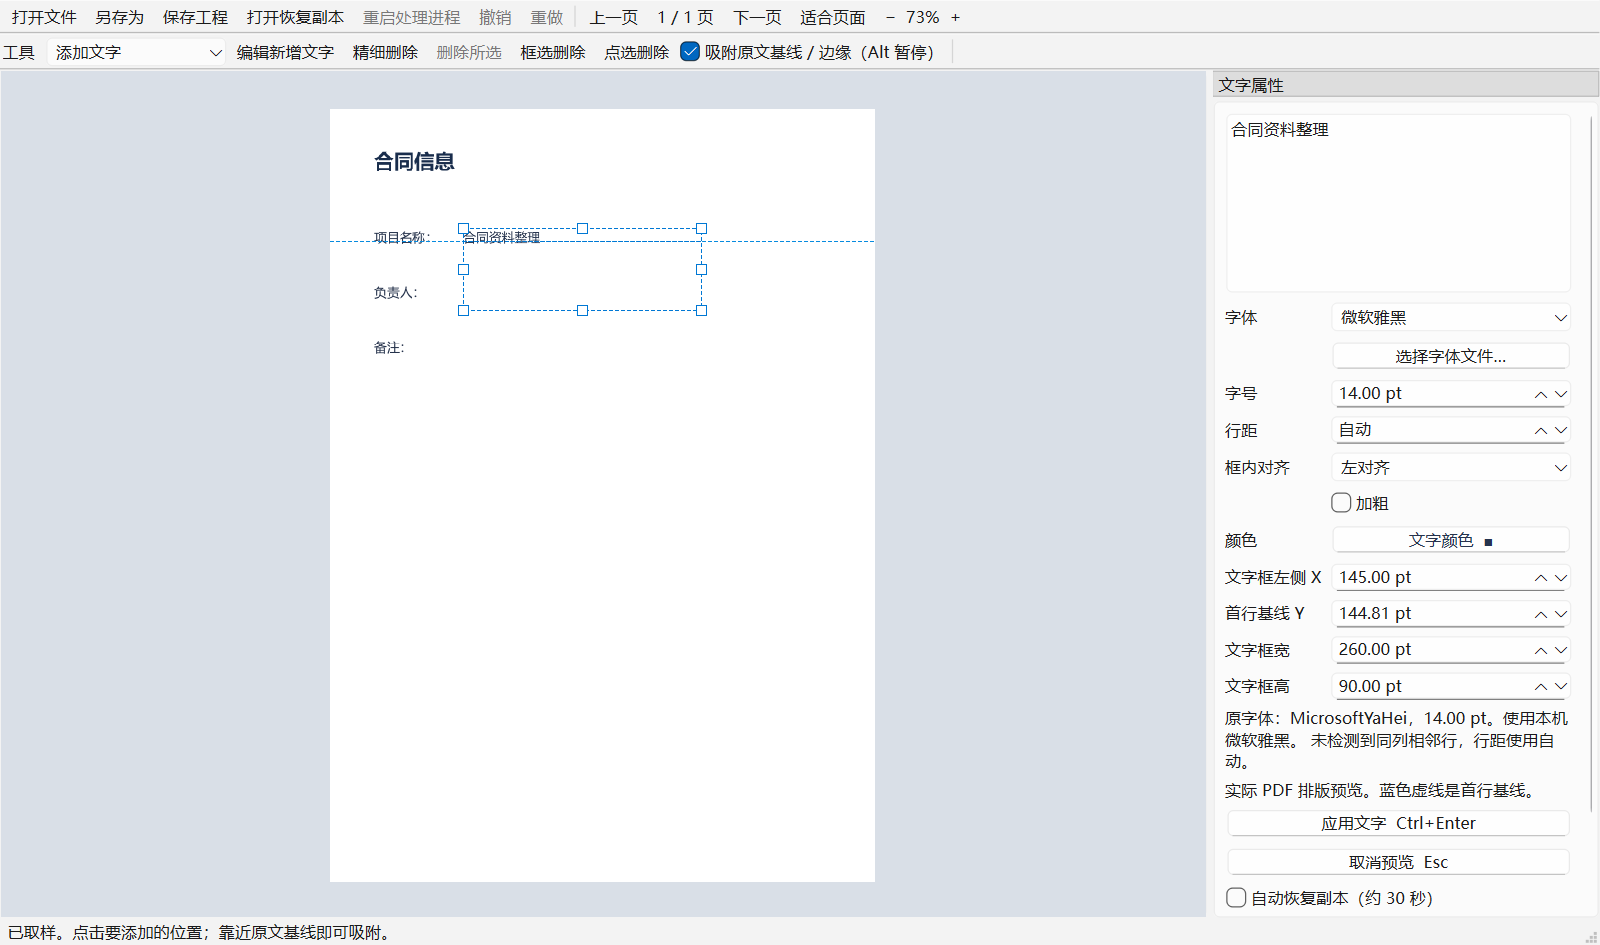
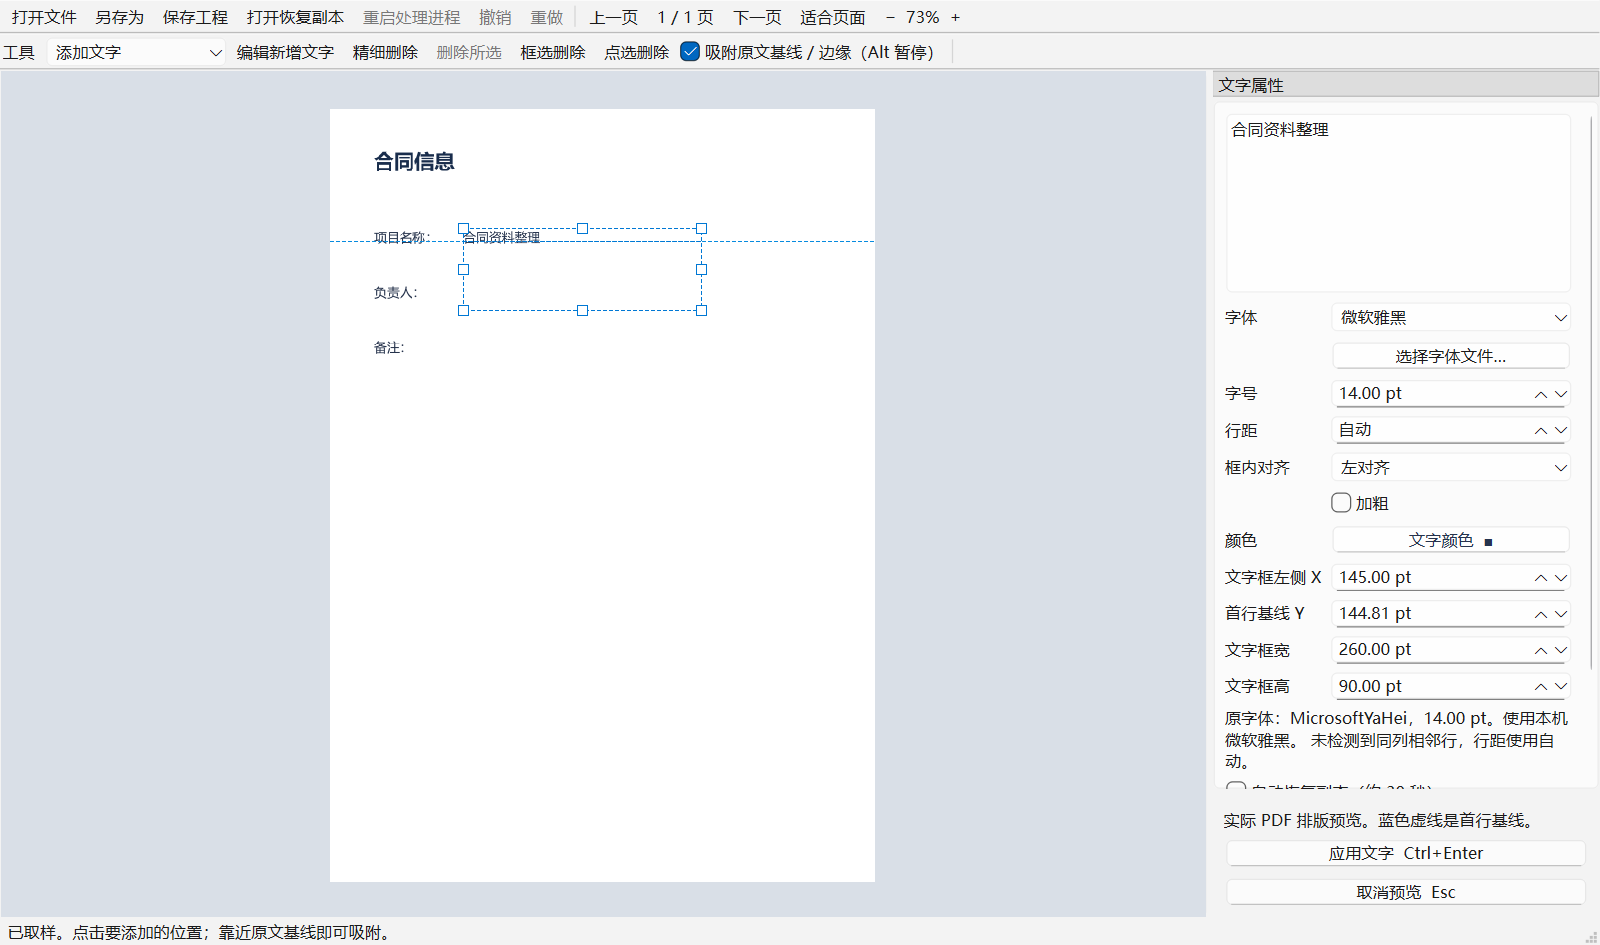
Release v0.5.0-rc.4 with fixed controls and Chinese font fallback

Changed region(s): [[0.75, 0.8286, 0.9688, 0.982]]

diff --git a/pdf_editor.py b/pdf_editor.py
@@ -18,6 +18,27 @@ from alignment import snap_box, nearest_span, match_font, word_at, sample_line_s
 from version import __version__
 
 
+class FocusWheelMixin:
+    """Scrolling past a property must not silently change the document style."""
+    def __init__(self, *args, **kwargs):
+        super().__init__(*args, **kwargs)
+        self.setFocusPolicy(Qt.FocusPolicy.StrongFocus)
+
+    def wheelEvent(self, event):
+        if self.hasFocus():
+            super().wheelEvent(event)
+        else:
+            event.ignore()
+
+
+class PropertyComboBox(FocusWheelMixin, QComboBox):
+    pass
+
+
+class PropertySpinBox(FocusWheelMixin, QDoubleSpinBox):
+    pass
+
+
 class PdfClient(QObject):
     result = Signal(dict)
     failed = Signal(str)
@@ -514,6 +535,10 @@ class Editor(QMainWindow):
         self.guides = []
         self.color = (0.0, 0.0, 0.0)
         self.fonts = windows_fonts()
+        if not any(name in self.fonts for name in ('微软雅黑', '宋体', '黑体', '楷体', '仿宋')):
+            self.fonts = {'内置中文字体': None, **self.fonts}
+        else:
+            self.fonts['内置中文字体'] = None
         self.preview_version = 0
         self.tile_cache = OrderedDict()
         self.cache_bytes = 0
@@ -586,7 +611,7 @@ class Editor(QMainWindow):
         editing.setMovable(False)
         self.addToolBar(editing)
         editing.addWidget(QLabel('工具  '))
-        self.mode = QComboBox()
+        self.mode = PropertyComboBox()
         for label, value in [('添加文字', 'add'), ('表格单元格填字', 'cell'), ('编辑新增文字', 'edit'), ('精细删除（按字符）', 'precise'), ('框选删除', 'delete'), ('点选删除文字', 'erase'), ('取样原文样式', 'sample'), ('平移页面', 'pan')]:
             self.mode.addItem(label, value)
         self.mode.currentIndexChanged.connect(self.mode_changed)
@@ -616,20 +641,20 @@ class Editor(QMainWindow):
         self.text_input.textChanged.connect(self.content_changed)
         layout.addWidget(self.text_input)
         form = QFormLayout()
-        self.font_combo = QComboBox()
-        self.font_combo.addItems(list(self.fonts) or ['内置宋体'])
+        self.font_combo = PropertyComboBox()
+        self.font_combo.addItems(list(self.fonts))
         self.font_combo.currentTextChanged.connect(self.content_changed)
         form.addRow('字体', self.font_combo)
         import_button = QPushButton('选择字体文件…')
         import_button.clicked.connect(self.import_font)
         form.addRow('', import_button)
-        self.size = QDoubleSpinBox()
+        self.size = PropertySpinBox()
         self.size.setRange(6, 96)
         self.size.setValue(14)
         self.size.setSuffix(' pt')
         self.size.valueChanged.connect(self.content_changed)
         form.addRow('字号', self.size)
-        self.line_spacing = QDoubleSpinBox()
+        self.line_spacing = PropertySpinBox()
         self.line_spacing.setRange(0, 1000)
         self.line_spacing.setDecimals(2)
         self.line_spacing.setSuffix(' pt')
@@ -637,7 +662,7 @@ class Editor(QMainWindow):
         self.line_spacing.setToolTip('相邻行基线之间的距离；0 为字体默认行距。取样时尝试读取同列相邻行。')
         self.line_spacing.valueChanged.connect(self.content_changed)
         form.addRow('行距', self.line_spacing)
-        self.text_align = QComboBox()
+        self.text_align = PropertyComboBox()
         for label, value in [('左对齐', 0), ('居中', 1), ('右对齐', 2)]:
             self.text_align.addItem(label, value)
         self.text_align.currentIndexChanged.connect(self.content_changed)
@@ -651,7 +676,7 @@ class Editor(QMainWindow):
         form.addRow('颜色', self.color_button)
         self.coords = {}
         for key, label, value in [('x', '文字框左侧 X', 40), ('baseline', '首行基线 Y', 60), ('width', '文字框宽', 260), ('height', '文字框高', 90)]:
-            field = QDoubleSpinBox()
+            field = PropertySpinBox()
             field.setRange(0 if key in ('x', 'baseline') else 12, 20000)
             field.setDecimals(2)
             field.setValue(value)
@@ -664,16 +689,6 @@ class Editor(QMainWindow):
         self.sample_label.setWordWrap(True)
         layout.addWidget(self.sample_label)
         layout.addStretch()
-        self.preview_label = QLabel('点击页面放置文字；对齐时出现蓝色参考线。')
-        self.preview_label.setWordWrap(True)
-        layout.addWidget(self.preview_label)
-        self.apply_button = QPushButton('应用文字  Ctrl+Enter')
-        self.apply_button.setEnabled(False)
-        self.apply_button.clicked.connect(self.apply)
-        layout.addWidget(self.apply_button)
-        cancel = QPushButton('取消预览  Esc')
-        cancel.clicked.connect(self.cancel)
-        layout.addWidget(cancel)
         self.recovery_toggle = QCheckBox('自动恢复副本（约 30 秒）')
         self.recovery_toggle.setToolTip('选择本地目录，保存当前文档和已放置的草稿；保留原有 PDF 加密。每次打开文件后需重新启用。')
         self.recovery_toggle.toggled.connect(self.toggle_recovery)
@@ -687,7 +702,26 @@ class Editor(QMainWindow):
         scroll = QScrollArea()
         scroll.setWidgetResizable(True)
         scroll.setWidget(body)
-        dock.setWidget(scroll)
+        self.properties_scroll = scroll
+        panel = QWidget()
+        panel_layout = QVBoxLayout(panel)
+        panel_layout.setContentsMargins(0, 0, 0, 0)
+        panel_layout.addWidget(scroll, 1)
+        footer_widget = QWidget()
+        footer_layout = QVBoxLayout(footer_widget)
+        self.preview_label = QLabel('点击页面放置文字；对齐时出现蓝色参考线。')
+        self.preview_label.setWordWrap(True)
+        self.preview_label.setMaximumHeight(64)
+        footer_layout.addWidget(self.preview_label)
+        self.apply_button = QPushButton('应用文字  Ctrl+Enter')
+        self.apply_button.setEnabled(False)
+        self.apply_button.clicked.connect(self.apply)
+        footer_layout.addWidget(self.apply_button)
+        self.cancel_button = QPushButton('取消预览  Esc')
+        self.cancel_button.clicked.connect(self.cancel)
+        footer_layout.addWidget(self.cancel_button)
+        panel_layout.addWidget(footer_widget)
+        dock.setWidget(panel)
         self.addDockWidget(Qt.DockWidgetArea.RightDockWidgetArea, dock)
         apply_action = QAction(self)
         apply_action.setShortcut('Ctrl+Return')
@@ -824,6 +858,7 @@ class Editor(QMainWindow):
                     self.draft.update()
                     self.apply_button.setEnabled(False)
                     self.preview_label.setText(response['error'])
+                    self.preview_label.setToolTip(response['error'])
             elif kind == 'tile':
                 self.statusBar().showMessage('该区域渲染失败：' + response['error'], 6000)
             else:
@@ -865,6 +900,7 @@ class Editor(QMainWindow):
                 self.sync_geometry()
                 self.apply_button.setEnabled(not self.busy)
                 self.preview_label.setText('实际 PDF 排版预览。蓝色虚线是首行基线。')
+                self.preview_label.setToolTip('')
         elif kind == 'tile' and not data.get('stale'):
             key = tuple(request['key'])
             pixmap = decode_pixmap(data['image'])
@@ -1035,7 +1071,7 @@ class Editor(QMainWindow):
         fontfile = spec.get('fontfile')
         label = next((name for name, path in self.fonts.items() if path == fontfile), None)
         if label is None:
-            label = Path(fontfile).name if fontfile else '内置宋体'
+            label = Path(fontfile).name if fontfile else '内置中文字体'
             self.fonts[label] = fontfile
             if self.font_combo.findText(label) < 0:
                 self.font_combo.addItem(label)

diff --git a/test_editor.py b/test_editor.py
@@ -8,7 +8,7 @@ import unittest
 from unittest.mock import patch
 import pymupdf as fitz
 from PySide6.QtCore import QPoint, QPointF, Qt, QMimeData, QUrl
-from PySide6.QtGui import QDragEnterEvent, QDropEvent
+from PySide6.QtGui import QDragEnterEvent, QDropEvent, QWheelEvent
 from PySide6.QtWidgets import QApplication, QMessageBox
 from PySide6.QtTest import QTest
 from pdf_core import add_text, delete_text, windows_fonts, text_spans, text_characters
@@ -321,6 +321,73 @@ class QtTests(unittest.TestCase):
         e.place(QPointF(300, span['baseline'] + 2))
         self.wait(lambda: e.draft is not None and e.draft.valid)
         return span
+
+    def test_property_wheel_requires_keyboard_focus(self):
+        e = self.editor
+        for control, value in ((e.size, e.size.value), (e.font_combo, e.font_combo.currentIndex),
+                               (e.text_align, e.text_align.currentIndex), (e.coords['x'], e.coords['x'].value),
+                               (e.mode, e.mode.currentIndex)):
+            with self.subTest(control=control):
+                e.activateWindow()
+                e.text_input.setFocus()
+                QApplication.processEvents()
+                before = value()
+                def wheel():
+                    point = control.rect().center()
+                    event = QWheelEvent(QPointF(point), QPointF(control.mapToGlobal(point)), QPoint(),
+                                        QPoint(0, -120), Qt.MouseButton.NoButton,
+                                        Qt.KeyboardModifier.NoModifier, Qt.ScrollPhase.NoScrollPhase, False)
+                    QApplication.sendEvent(control, event)
+                    return event
+                event = wheel()
+                self.assertEqual(value(), before)
+                self.assertFalse(event.isAccepted())
+                control.setFocus()
+                QApplication.processEvents()
+                self.assertTrue(control.hasFocus())
+                wheel()
+                self.assertNotEqual(value(), before)
+
+    def test_small_window_keeps_apply_cancel_visible(self):
+        e = self.editor
+        e.setMinimumSize(600, 400)
+        e.resize(900, 480)
+        self.make_draft()
+        bar = e.properties_scroll.verticalScrollBar()
+        self.assertGreater(bar.maximum(), 0)
+        for position in (0, bar.maximum()):
+            bar.setValue(position)
+            QApplication.processEvents()
+            for button in (e.apply_button, e.cancel_button):
+                self.assertEqual(button.visibleRegion().boundingRect(), button.rect())
+                self.assertTrue(e.rect().contains(button.mapTo(e, button.rect().bottomRight())))
+        QTest.mouseClick(e.apply_button, Qt.MouseButton.LeftButton)
+        self.wait(lambda: not e.busy and e.draft is None)
+        self.assertIn('Aligned text', ''.join(s['text'] for s in e.spans).replace('\xa0', ' '))
+
+    def test_builtin_chinese_font_with_only_latin_system_fonts(self):
+        with patch('pdf_editor.windows_fonts', return_value={'Arial': windows_fonts().get('Arial')}):
+            other = Editor()
+        try:
+            self.assertEqual(other.font_combo.currentText(), '内置中文字体')
+            self.assertIsNone(other.fonts[other.font_combo.currentText()])
+        finally:
+            other.client.close()
+            other.close()
+        e = self.editor
+        self.assertGreaterEqual(e.font_combo.findText('内置中文字体'), 0)
+        e.font_combo.setCurrentText('内置中文字体')
+        e.text_input.setPlainText('内置中文测试')
+        e.place(QPointF(60, 420))
+        self.wait(lambda: e.draft is not None and e.draft.valid)
+        e.apply()
+        self.wait(lambda: not e.busy and e.draft is None)
+        self.assertIn('内置中文测试', ''.join(s['text'] for s in e.spans))
+        obj = e.objects[-1]
+        e.edit_at(QPointF(obj['bbox'][0] + 3, obj['bbox'][1] + 3))
+        self.wait(lambda: not e.busy and e.draft is not None and e.draft.valid)
+        self.assertEqual(e.font_combo.currentText(), '内置中文字体')
+        self.assertIsNone(e.spec()['fontfile'])
 
     def test_cell_click_line_pitch_and_reedit(self):
         e = self.editor

diff --git a/portable_smoke.py b/portable_smoke.py
@@ -42,7 +42,10 @@ def run(editor, output):
                                 device_pixel_ratio=editor.devicePixelRatioF())
         if editor.width() > available.width() or editor.height() > available.height():
             raise AssertionError('Window exceeds available screen geometry')
-        report['checks'].append('open and render')
+        for button in (editor.apply_button, editor.cancel_button):
+            if button.visibleRegion().boundingRect() != button.rect():
+                raise AssertionError('Apply/cancel controls are clipped')
+        report['checks'].append('open, render and visible apply/cancel controls')
         editor.view.select_characters(QRectF(38, 45, 160, 20), QPointF())
         editor.delete_characters()
         wait(lambda: not editor.busy)
@@ -54,7 +57,7 @@ def run(editor, output):
         editor.size.setValue(14)
         editor.line_spacing.setValue(26)
         editor.text_align.setCurrentIndex(editor.text_align.findData(1))
-        editor.font_combo.setCurrentText('微软雅黑' if '微软雅黑' in windows_fonts() else '内置宋体')
+        editor.font_combo.setCurrentText('内置中文字体')
         editor.place_cell(QPointF(100, 160))
         wait(lambda: editor.draft and editor.draft.valid)
         editor.apply()

diff --git a/version.py b/version.py
@@ -1,1 +1,1 @@
-__version__ = "0.5.0-rc.3"
+__version__ = "0.5.0-rc.4"

diff --git a/ROADMAP.md b/ROADMAP.md
@@ -3,7 +3,7 @@
 > 自用 / Personal use。以下是计划，不代表已实现；按实际使用反馈调整优先级，不预设发布日期。
 > Planned work, not released features. Priorities follow personal-use feedback; no release dates are promised.
 
-## 当前版本 / Current: v0.5.0-rc.3
+## 当前版本 / Current: v0.5.0-rc.4
 
 Qt 界面、独立 PDF 处理进程、可见区域分块渲染、原文基线与边缘吸附、字体样式取样、增删文字、字符 / 词段选择与删除预览、本次会话新增文字再次编辑、重叠框选择、删除后保留独立文字框、相邻文字保护、加粗、撤销 / 重做、拖放、加密文件保存。
 
@@ -23,7 +23,9 @@ Work proceeds in this order, with tests before each release. Versions identify w
 | 已发布 / Released | v0.4.2 自动恢复 / Recovery | 可选自动保存、未应用草稿恢复。 / Optional autosave and unapplied draft recovery. | 恢复不覆盖原稿；加密文档不明文保存密码或解密副本；失败不阻塞编辑。 / Preserve originals and encryption, never persist passwords; failure must not block editing. |
 | 3 | v0.5.0 Windows 交付 / Windows delivery | 便携 EXE、依赖打包、高 DPI / 多显示器适配、无 Python 环境验证。 / Portable EXE, bundled dependencies, high-DPI/multi-monitor support, clean-machine validation. | 无 Python 的 Windows 测试环境可打开、拖放、编辑、撤销并导出；提供安装包哈希与已知限制。 / Open/drop/edit/undo/export on Windows without Python; published package hashes and limitations. |
 
-## 本轮进展 / Current: v0.5.0-rc.3
+## 本轮进展 / Current: v0.5.0-rc.4
+
+- 固定应用 / 取消操作区、内置中文字体可选与缺省回退、属性滚轮焦点保护。 / Fixed Apply/Cancel footer, selectable/default Chinese font fallback and focus-protected property wheels.
 
 - Windows x64 便携候选版、共享依赖的无控制台界面 / 工作进程、构建脚本、对应源码与许可证、SHA-256 校验值。 / Portable Windows x64 candidate, windowless GUI/worker with shared libraries, build scripts, matching source/licenses and SHA-256 checksums.
 - 已完成本机移位 / 中文空格路径验证；全新无 Python 系统和物理多显示器仍待验证，因此尚不标为 v0.5.0 正式版。 / Relocated Unicode/space-path local validation; clean Windows without Python and physical multi-monitor checks remain pending, so v0.5.0 is not yet final.

diff --git a/README.en.md b/README.en.md
@@ -1,4 +1,4 @@
-# Light PDF Editor v0.5.0-rc.3 · Qt Edition · Personal Use
+# Light PDF Editor v0.5.0-rc.4 · Qt Edition · Personal Use
 
 English | [简体中文](README.md) | [Roadmap](ROADMAP.md) | [Changelog](CHANGELOG.md)
 
@@ -31,6 +31,8 @@ The initial Qt download is larger than the old version; subsequent use can be of
 6. Review the PDF engine's text preview, then click **应用文字** (Apply) or press **Ctrl+Enter**. Press **Esc** to cancel the draft.
 
 Changing font or size preserves the first baseline where page bounds permit. Baseline snapping currently supports extractable text that is horizontal on screen. Scans, outlined glyphs, and vertical text do not provide supported baseline targets.
+
+In small windows, Apply and Cancel remain fixed below the scrollable properties. Font, size and position controls respond to the wheel only after receiving keyboard focus. **内置中文字体** (built-in Chinese font) is always available and becomes the default when no supported Chinese system font is installed.
 
 ## Re-edit inserted text
 
@@ -164,8 +166,8 @@ Only the last successful snapshot is recoverable; later changes may be lost. Inp
 - Boxes narrower than one character are rejected with an explicit widening hint, preventing horizontal overflow.
 - Synthetic bold for fonts without a dedicated bold file, such as SimSun, uses stroke width proportional to font size. The previous extra multiplication by font size is removed.
 
-## v0.5.0-rc.3 box alignment and rotated selection
+## v0.5.0-rc.4 box alignment and rotated selection
 
 **框内对齐** supports left, center and right alignment within each text box; centering works directly with table-cell placement. X always denotes the box's left edge, and clicks/drags position the box. Style sampling resets to left alignment instead of guessing the source paragraph's alignment.
 
-Alignment survives preview, re-editing, projects and recovery. Files containing the new alignment setting require v0.5.0-rc.3 or newer; older projects remain readable. Precise font metrics fix selection boxes displaced from SimSun and similar text on 180-degree pages.
+Alignment survives preview, re-editing, projects and recovery. Files containing the new alignment setting require v0.5.0-rc.4 or newer; older projects remain readable. Precise font metrics fix selection boxes displaced from SimSun and similar text on 180-degree pages.

diff --git a/CHANGELOG.md b/CHANGELOG.md
@@ -3,6 +3,17 @@
 自用 / Personal use。版本标签对应可回溯的代码快照。
 Version tags identify reproducible source snapshots.
 
+## v0.5.0-rc.4 — 2026-09-26
+
+- 应用 / 取消按钮固定在属性面板底部，小窗口与高 DPI 下无需滚到底部才能操作。
+  Keep Apply/Cancel below the scrollable properties in small/high-DPI windows.
+- 始终提供内置中文字体；没有受支持的中文系统字体时默认选中。修正原“内置宋体”的不准确命名。
+  Always offer the built-in Chinese font and default to it without supported Chinese system fonts; correct the misleading “built-in SimSun” label.
+- 字体、字号、坐标、工具等控件只有获得焦点时才响应滚轮，避免滚动经过时误改值。
+  Require keyboard focus before wheel changes to font, size, position or tool controls.
+- 72 项回归通过，增加小窗口按钮可见与点击、仅英文系统字体下中文添加 / 重编辑、滚轮焦点保护；便携验证使用内置字体。
+  72 regressions pass, including small-window visibility/click, Chinese insertion/re-edit with Latin-only font inventory and wheel focus; exercise the built-in font in packaged checks.
+
 ## v0.5.0-rc.3 — 2026-09-23
 
 - 新增框内左 / 中 / 右对齐，多行文字按同一文字框对齐；预览、重编辑、工程与恢复保留设置。

diff --git a/BUILD_WINDOWS.md b/BUILD_WINDOWS.md
@@ -1,6 +1,6 @@
 # Windows 便携版构建 / Portable Windows builds
 
-当前候选版：v0.5.0-rc.3。自用 / Personal use。
+当前候选版：v0.5.0-rc.4。自用 / Personal use。
 
 ## 使用 / Run
 
@@ -21,7 +21,7 @@ python -m venv .venv
 .venv\Scripts\python.exe -m pip install -r requirements-build.txt
 .venv\Scripts\python.exe -m unittest discover -q
 .venv\Scripts\python.exe build_windows.py
-.venv\Scripts\python.exe verify_portable.py releases\LightPDFEditor-0.5.0-rc.3-windows-x64.zip
+.venv\Scripts\python.exe verify_portable.py releases\LightPDFEditor-0.5.0-rc.4-windows-x64.zip
 ```
 
 构建脚本验证输出目录位于仓库内，再调用 PyInstaller；只替换 `dist/LightPDFEditor` 构建产物。ZIP 与 SHA-256 文件位于 `releases/`，不会加入 Git 源代码历史。版本代码使用 Git 标签管理，ZIP 作为对应 GitHub Release 附件。
